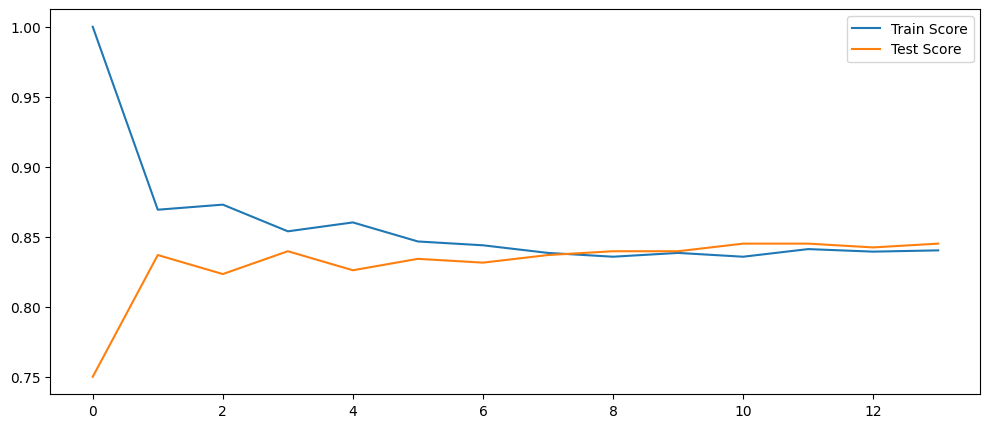
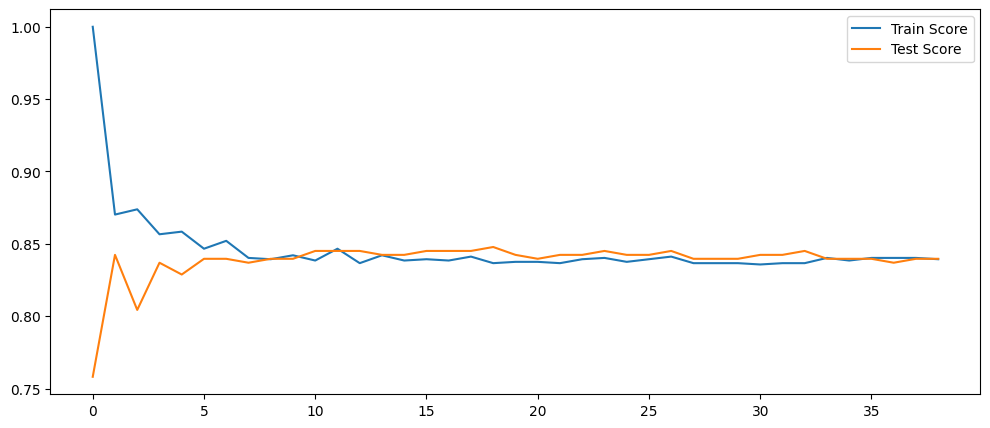
added test graphs

diff --git a/scripts/attrition.py b/scripts/attrition.py
@@ -67,7 +67,7 @@ clf = Pipeline(
         (
             "knn",
             KNeighborsClassifier(
-                n_neighbors=15, metric="minkowski", weights="uniform", leaf_size=15, p=1
+                n_neighbors=19, metric="manhattan", weights="uniform", leaf_size=15
             ),
         ),
     ]
@@ -76,32 +76,6 @@ clf = Pipeline(
 
 clf.fit(X_train, y_train)
 print("model score: %.3f" % clf.score(X_test, y_test))
-'''train_score = {}
-test_score = {}
-n_neighbors = np.arange(2, 30, 1)
-for neighbor in n_neighbors:
-    knn = KNeighborsClassifier(n_neighbors=neighbor)
-    knn.fit(X_train, y_train)
-    train_score[neighbor] = knn.score(X_train, y_train)
-    test_score[neighbor] = knn.score(X_test, y_test)
-plt.plot(n_neighbors, train_score.values(), label="Train Accuracy")
-plt.plot(n_neighbors, test_score.values(), label="Test Accuracy")
-plt.xlabel("Number Of Neighbors")
-plt.ylabel("Accuracy")
-plt.title("KNN: Varying number of Neighbors")
-plt.legend()
-plt.xlim(0, 33)
-plt.ylim(0.60, 0.90)
-plt.grid()
-plt.savefig(
-    OUTPUT.joinpath("neighbors.svg"), bbox_inches="tight", transparent=True
-)
-plt.savefig(
-    OUTPUT.joinpath("neighbors.png"), bbox_inches="tight", transparent=True
-)
-for key, value in test_score.items():
-    if value == max(test_score.values()):
-        print(key)'''
 k_range = range(1, 40)
 scores = []
 for k in k_range:
@@ -119,20 +93,14 @@ plt.savefig(
 )
 test_scores = []
 train_scores = []
-for i in range(1,15):
-    knn = KNeighborsClassifier(i)
+for i in range(1,40):
+    knn = KNeighborsClassifier(i, metric='manhattan')
     knn.fit(X_train,y_train) 
     train_scores.append(knn.score(X_train,y_train))
     test_scores.append(knn.score(X_test,y_test))
-    
-## Training Evaluation
 max_train_score = max(train_scores)
-# # Store the max train test score index by enumerating through all the scores.
 train_scores_ind = [i for i, v in enumerate(train_scores) if v == max_train_score]
-# Store the max score in the first curly parenthesis and the indices in the second.
-# The lambda function takes the index starting at zero therefore one is added to get the k value.
 print('Max train score {} % and k = {}'.format(max_train_score*100,list(map(lambda x: x+1, train_scores_ind))))
-## Testing Evaluation
 max_test_score = max(test_scores)
 test_scores_ind = [i for i, v in enumerate(test_scores) if v == max_test_score]
 print('Max test score {} % and k = {}'.format(max_test_score*100,list(map(lambda x: x+1, test_scores_ind))))
